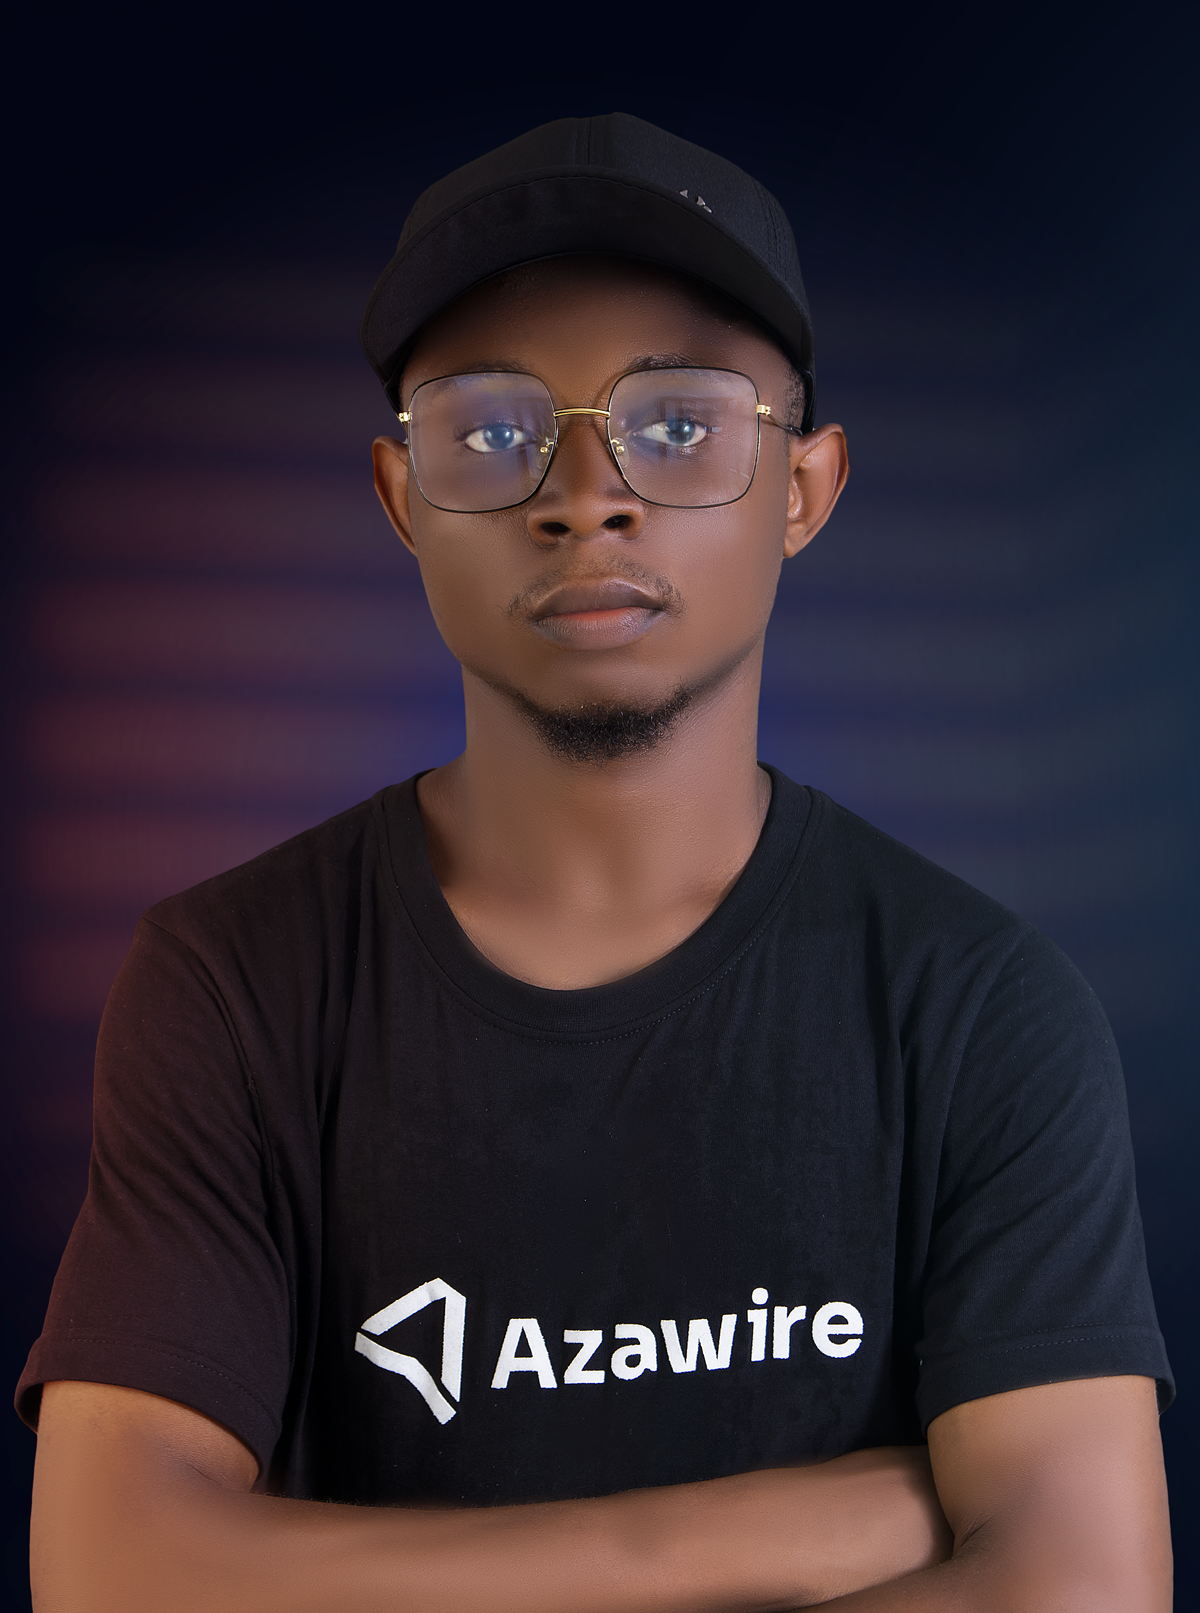
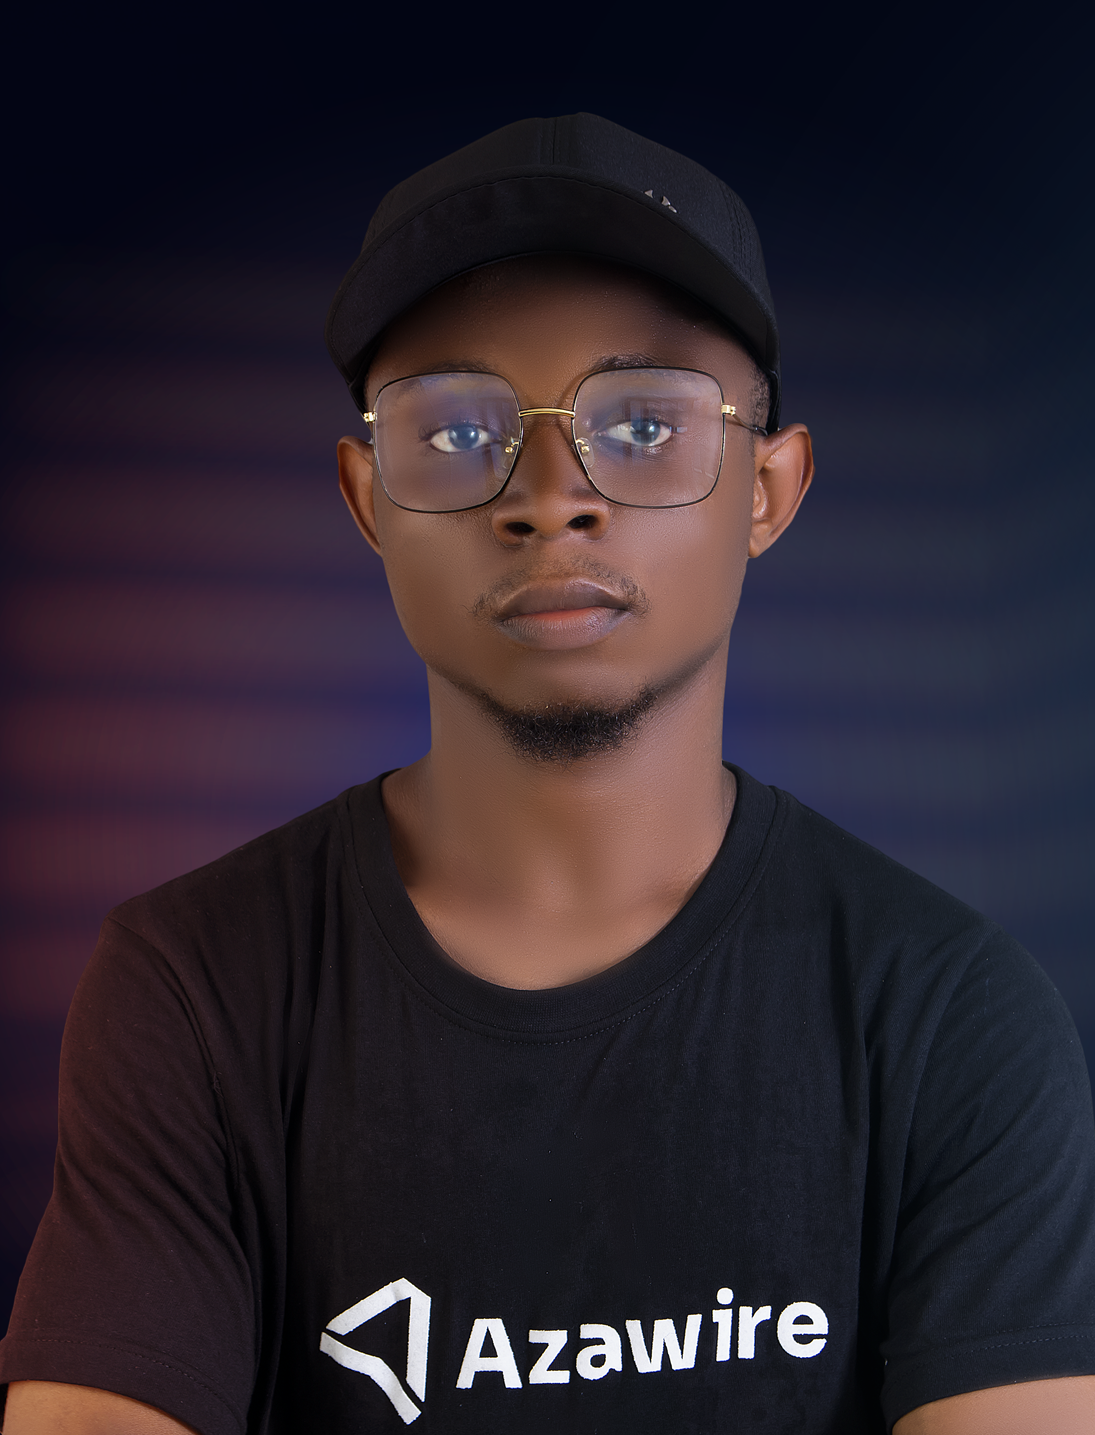
updated

diff --git a/src/pages/About.jsx b/src/pages/About.jsx
@@ -59,11 +59,11 @@ const teamMembers = [
     position: "Frontend Developer",
     image: "/images/team/Godswill Okoi.png",
   },
-  {
-    name: "Olawale Hameed",
-    position: "Backend Developer",
-    image: "/images/team/placeholder.png",
-  },
+  // {
+  //   name: "Olawale Hameed",
+  //   position: "Backend Developer",
+  //   image: "/images/team/placeholder.png",
+  // },
   {
     name: "Jesse Mathias",
     position: "Marketing Manager",
@@ -78,6 +78,11 @@ const teamMembers = [
     name: "Raaboni Innocent",
     position: "Graphics Designer",
     image: "/images/team/Raaboni Innocent.jpg",
+  },
+  {
+    name: "Grace Arua.jpg",
+    position: "Social media manager",
+    image: "/images/team/Grace Arua.jpg",
   },
 ];
 
@@ -243,7 +248,7 @@ const About = () => {
                   <img
                     src={member.image}
                     alt={member.name}
-                    className="w-full h-auto rounded-xl lg:grayscale hover:grayscale-0 transition duration-100"
+                    className="w-full h-auto rounded-xl lg:grayscale-0 hover:grayscale transition duration-100"
                   />
                   <div className="absolute bottom-0 left-0 right-0 bg-secondary text-white text-center md:py-1 py-2">
                     <p className="font-semibold md:text-sm text-lg">
